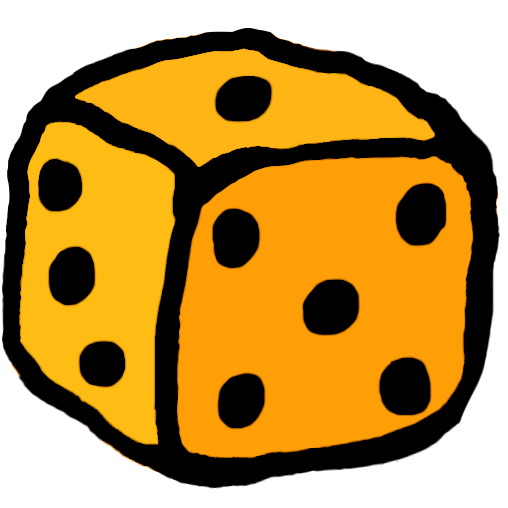
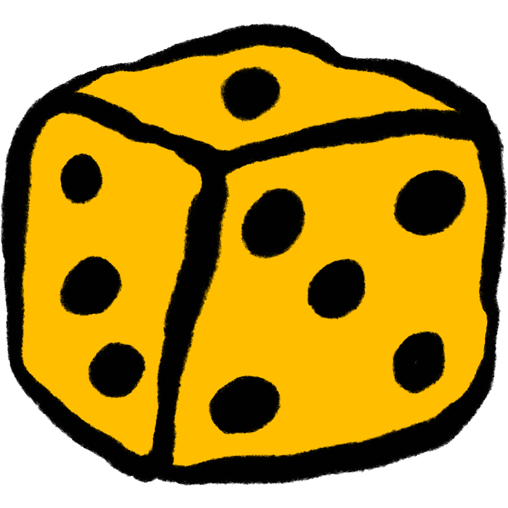
changeicons

diff --git a/index.html b/index.html
@@ -5,12 +5,11 @@
     <link rel="preconnect" href="https://fonts.googleapis.com" />
     <link rel="preconnect" href="https://fonts.gstatic.com" crossorigin />
     <link
-      href="https://fonts.googleapis.com/css2?family=Montserrat&display=swap"
-      rel="stylesheet"
-    />
-    <link rel="stylesheet" href="style.css">
+    href="https://fonts.googleapis.com/css2?family=Montserrat&display=swap"
+    rel="stylesheet"
+  /> <link rel="stylesheet" href="style.css">
   
-    <link rel="icon" type="image/png" href="diddateningur2.png" />
+    <link rel="icon" type="image/png" href="https://cdn.glitch.global/afd6bd89-5aa6-4ad5-a74d-3a4f8b481258/teningur_icon.png?v=1674076290462" />
     <title>Didda Flygenring</title>
   </head>
 
@@ -188,10 +187,10 @@ function mouseOut2() {
   
     </script>
 
-    <input  onmouseout="mouseOut()" onmouseover="mouseOver()" onclick="everything()" id="everything" class= "icon" type="image" width="20px" src="https://cdn.glitch.global/b7a91551-0927-45a3-b8a5-350a34a2849a/diddateningur2.png?v=1673995074265" />
-    <input  onmouseout="mouseOut1()" onmouseover="mouseOver1()" onclick="video()" id="video" class= "icon" type="image" width="20px" src="https://cdn.glitch.global/afd6bd89-5aa6-4ad5-a74d-3a4f8b481258/video.png?v=1674027890062" />
-    <input  onmouseout="mouseOut2()" onmouseover="mouseOver2()" onclick="graphic()" id="graphic" class= "icon" type="image" width="20px" src="https://cdn.glitch.global/afd6bd89-5aa6-4ad5-a74d-3a4f8b481258/graphic2.png?v=1674027887445" />
-    <input  onmouseout="mouseOut3()" onmouseover="mouseOver3()" onclick="illustrations()" id="illustrations" class= "icon" type="image" width="20px" src="https://cdn.glitch.global/afd6bd89-5aa6-4ad5-a74d-3a4f8b481258/blyantur2.png?v=1674027416649" />
+    <input  onmouseout="mouseOut()" onmouseover="mouseOver()" onclick="everything()" id="everything" class= "icon" type="image" width="21px" src="https://cdn.glitch.global/afd6bd89-5aa6-4ad5-a74d-3a4f8b481258/teningur_icon.png" />
+    <input  onmouseout="mouseOut1()" onmouseover="mouseOver1()" onclick="video()" id="video" class= "icon" type="image" width="21px" src="https://cdn.glitch.global/afd6bd89-5aa6-4ad5-a74d-3a4f8b481258/video_icon.png?v=1674076621364" />
+    <input  onmouseout="mouseOut2()" onmouseover="mouseOver2()" onclick="graphic()" id="graphic" class= "icon" type="image" width="21px" src="https://cdn.glitch.global/afd6bd89-5aa6-4ad5-a74d-3a4f8b481258/graphic_icon.png?v=1674076293792" />
+    <input  onmouseout="mouseOut3()" onmouseover="mouseOver3()" onclick="illustrations()" id="illustrations" class= "icon" type="image" width="23px" src="https://cdn.glitch.global/afd6bd89-5aa6-4ad5-a74d-3a4f8b481258/illustrations_icon.png?v=1674076303822" />
     
   </div>
     <body>

diff --git a/escaping-the-meat.html b/escaping-the-meat.html
@@ -29,13 +29,11 @@
     document.getElementById("everything").style.filter = 'contrast(1000%) grayscale(100%) brightness(600%)';
  }
      </script>
- 
-     <input  onmouseover="mouseOver()" onmouseout="mouseOut()" onclick="window.location.href='./';" id="everything" class= "icon" type="image" width="20px" src="https://cdn.glitch.global/b7a91551-0927-45a3-b8a5-350a34a2849a/diddateningur2.png?v=1673995074265" />
-     <input  id="video" class= "icon" type="image" width="20px" src="https://cdn.glitch.global/afd6bd89-5aa6-4ad5-a74d-3a4f8b481258/video.png?v=1674027890062" />
-     <input  id="graphic" class= "icon" type="image" width="20px" src="https://cdn.glitch.global/afd6bd89-5aa6-4ad5-a74d-3a4f8b481258/graphic2.png?v=1674027887445" />
-     <input  id="illustrations" class= "icon" type="image" width="20px" src="https://cdn.glitch.global/afd6bd89-5aa6-4ad5-a74d-3a4f8b481258/blyantur2.png?v=1674027416649" />
- 
-</div>
+ <input  onmouseout="mouseOut()" onmouseover="mouseOver()" onclick="everything()" id="everything" class= "icon" type="image" width="21px" src="https://cdn.glitch.global/afd6bd89-5aa6-4ad5-a74d-3a4f8b481258/teningur_icon.png" />
+ <input  onmouseout="mouseOut1()" onmouseover="mouseOver1()" onclick="video()" id="video" class= "icon" type="image" width="21px" src="https://cdn.glitch.global/afd6bd89-5aa6-4ad5-a74d-3a4f8b481258/video_icon.png?v=1674076621364" />
+ <input  onmouseout="mouseOut2()" onmouseover="mouseOver2()" onclick="graphic()" id="graphic" class= "icon" type="image" width="21px" src="https://cdn.glitch.global/afd6bd89-5aa6-4ad5-a74d-3a4f8b481258/graphic_icon.png?v=1674076293792" />
+ <input  onmouseout="mouseOut3()" onmouseover="mouseOver3()" onclick="illustrations()" id="illustrations" class= "icon" type="image" width="23px" src="https://cdn.glitch.global/afd6bd89-5aa6-4ad5-a74d-3a4f8b481258/illustrations_icon.png?v=1674076303822" />
+ </div>
   </head>
 
   <body>

diff --git a/gardina.html b/gardina.html
@@ -30,13 +30,11 @@
     document.getElementById("everything").style.filter = 'contrast(1000%) grayscale(100%) brightness(600%)';
  }
      </script>
- 
-     <input  onmouseover="mouseOver()" onmouseout="mouseOut()" onclick="window.location.href='./';" id="everything" class= "icon" type="image" width="20px" src="https://cdn.glitch.global/b7a91551-0927-45a3-b8a5-350a34a2849a/diddateningur2.png?v=1673995074265" />
-     <input  id="video" class= "icon" type="image" width="20px" src="https://cdn.glitch.global/afd6bd89-5aa6-4ad5-a74d-3a4f8b481258/video.png?v=1674027890062" />
-     <input  id="graphic" class= "icon" type="image" width="20px" src="https://cdn.glitch.global/afd6bd89-5aa6-4ad5-a74d-3a4f8b481258/graphic2.png?v=1674027887445" />
-     <input  id="illustrations" class= "icon" type="image" width="20px" src="https://cdn.glitch.global/afd6bd89-5aa6-4ad5-a74d-3a4f8b481258/blyantur2.png?v=1674027416649" />
- 
-</div>
+ <input  onmouseout="mouseOut()" onmouseover="mouseOver()" onclick="everything()" id="everything" class= "icon" type="image" width="21px" src="https://cdn.glitch.global/afd6bd89-5aa6-4ad5-a74d-3a4f8b481258/teningur_icon.png" />
+ <input  onmouseout="mouseOut1()" onmouseover="mouseOver1()" onclick="video()" id="video" class= "icon" type="image" width="21px" src="https://cdn.glitch.global/afd6bd89-5aa6-4ad5-a74d-3a4f8b481258/video_icon.png?v=1674076621364" />
+ <input  onmouseout="mouseOut2()" onmouseover="mouseOver2()" onclick="graphic()" id="graphic" class= "icon" type="image" width="21px" src="https://cdn.glitch.global/afd6bd89-5aa6-4ad5-a74d-3a4f8b481258/graphic_icon.png?v=1674076293792" />
+ <input  onmouseout="mouseOut3()" onmouseover="mouseOver3()" onclick="illustrations()" id="illustrations" class= "icon" type="image" width="23px" src="https://cdn.glitch.global/afd6bd89-5aa6-4ad5-a74d-3a4f8b481258/illustrations_icon.png?v=1674076303822" />
+ </div>
   </head>
 
   <body>

diff --git a/helgi-hoseasson.html b/helgi-hoseasson.html
@@ -28,13 +28,11 @@
     document.getElementById("everything").style.filter = 'contrast(1000%) grayscale(100%) brightness(600%)';
  }
      </script>
- 
-     <input  onmouseover="mouseOver()" onmouseout="mouseOut()" onclick="window.location.href='./';" id="everything" class= "icon" type="image" width="20px" src="https://cdn.glitch.global/b7a91551-0927-45a3-b8a5-350a34a2849a/diddateningur2.png?v=1673995074265" />
-     <input  id="video" class= "icon" type="image" width="20px" src="https://cdn.glitch.global/afd6bd89-5aa6-4ad5-a74d-3a4f8b481258/video.png?v=1674027890062" />
-     <input  id="graphic" class= "icon" type="image" width="20px" src="https://cdn.glitch.global/afd6bd89-5aa6-4ad5-a74d-3a4f8b481258/graphic2.png?v=1674027887445" />
-     <input  id="illustrations" class= "icon" type="image" width="20px" src="https://cdn.glitch.global/afd6bd89-5aa6-4ad5-a74d-3a4f8b481258/blyantur2.png?v=1674027416649" />
- 
-</div>
+ <input  onmouseout="mouseOut()" onmouseover="mouseOver()" onclick="everything()" id="everything" class= "icon" type="image" width="21px" src="https://cdn.glitch.global/afd6bd89-5aa6-4ad5-a74d-3a4f8b481258/teningur_icon.png" />
+ <input  onmouseout="mouseOut1()" onmouseover="mouseOver1()" onclick="video()" id="video" class= "icon" type="image" width="21px" src="https://cdn.glitch.global/afd6bd89-5aa6-4ad5-a74d-3a4f8b481258/video_icon.png?v=1674076621364" />
+ <input  onmouseout="mouseOut2()" onmouseover="mouseOver2()" onclick="graphic()" id="graphic" class= "icon" type="image" width="21px" src="https://cdn.glitch.global/afd6bd89-5aa6-4ad5-a74d-3a4f8b481258/graphic_icon.png?v=1674076293792" />
+ <input  onmouseout="mouseOut3()" onmouseover="mouseOver3()" onclick="illustrations()" id="illustrations" class= "icon" type="image" width="23px" src="https://cdn.glitch.global/afd6bd89-5aa6-4ad5-a74d-3a4f8b481258/illustrations_icon.png?v=1674076303822" />
+ </div>
   </head>
 
   <body>

diff --git a/paper-and-type-specimen.html b/paper-and-type-specimen.html
@@ -30,13 +30,11 @@
     document.getElementById("everything").style.filter = 'contrast(1000%) grayscale(100%) brightness(600%)';
  }
      </script>
- 
-     <input  onmouseover="mouseOver()" onmouseout="mouseOut()" onclick="window.location.href='./';" id="everything" class= "icon" type="image" width="20px" src="https://cdn.glitch.global/b7a91551-0927-45a3-b8a5-350a34a2849a/diddateningur2.png?v=1673995074265" />
-     <input  id="video" class= "icon" type="image" width="20px" src="https://cdn.glitch.global/afd6bd89-5aa6-4ad5-a74d-3a4f8b481258/video.png?v=1674027890062" />
-     <input  id="graphic" class= "icon" type="image" width="20px" src="https://cdn.glitch.global/afd6bd89-5aa6-4ad5-a74d-3a4f8b481258/graphic2.png?v=1674027887445" />
-     <input  id="illustrations" class= "icon" type="image" width="20px" src="https://cdn.glitch.global/afd6bd89-5aa6-4ad5-a74d-3a4f8b481258/blyantur2.png?v=1674027416649" />
- 
-</div>
+ <input  onmouseout="mouseOut()" onmouseover="mouseOver()" onclick="everything()" id="everything" class= "icon" type="image" width="21px" src="https://cdn.glitch.global/afd6bd89-5aa6-4ad5-a74d-3a4f8b481258/teningur_icon.png" />
+ <input  onmouseout="mouseOut1()" onmouseover="mouseOver1()" onclick="video()" id="video" class= "icon" type="image" width="21px" src="https://cdn.glitch.global/afd6bd89-5aa6-4ad5-a74d-3a4f8b481258/video_icon.png?v=1674076621364" />
+ <input  onmouseout="mouseOut2()" onmouseover="mouseOver2()" onclick="graphic()" id="graphic" class= "icon" type="image" width="21px" src="https://cdn.glitch.global/afd6bd89-5aa6-4ad5-a74d-3a4f8b481258/graphic_icon.png?v=1674076293792" />
+ <input  onmouseout="mouseOut3()" onmouseover="mouseOver3()" onclick="illustrations()" id="illustrations" class= "icon" type="image" width="23px" src="https://cdn.glitch.global/afd6bd89-5aa6-4ad5-a74d-3a4f8b481258/illustrations_icon.png?v=1674076303822" />
+ </div>
   </head>
 
   <body>

diff --git a/the-pixels-i-occupy.html b/the-pixels-i-occupy.html
@@ -29,13 +29,11 @@
     document.getElementById("everything").style.filter = 'contrast(1000%) grayscale(100%) brightness(600%)';
  }
      </script>
- 
-     <input  onmouseover="mouseOver()" onmouseout="mouseOut()" onclick="window.location.href='./';" id="everything" class= "icon" type="image" width="20px" src="https://cdn.glitch.global/b7a91551-0927-45a3-b8a5-350a34a2849a/diddateningur2.png?v=1673995074265" />
-     <input  id="video" class= "icon" type="image" width="20px" src="https://cdn.glitch.global/afd6bd89-5aa6-4ad5-a74d-3a4f8b481258/video.png?v=1674027890062" />
-     <input  id="graphic" class= "icon" type="image" width="20px" src="https://cdn.glitch.global/afd6bd89-5aa6-4ad5-a74d-3a4f8b481258/graphic2.png?v=1674027887445" />
-     <input  id="illustrations" class= "icon" type="image" width="20px" src="https://cdn.glitch.global/afd6bd89-5aa6-4ad5-a74d-3a4f8b481258/blyantur2.png?v=1674027416649" />
- 
-</div>
+ <input  onmouseout="mouseOut()" onmouseover="mouseOver()" onclick="everything()" id="everything" class= "icon" type="image" width="21px" src="https://cdn.glitch.global/afd6bd89-5aa6-4ad5-a74d-3a4f8b481258/teningur_icon.png" />
+ <input  onmouseout="mouseOut1()" onmouseover="mouseOver1()" onclick="video()" id="video" class= "icon" type="image" width="21px" src="https://cdn.glitch.global/afd6bd89-5aa6-4ad5-a74d-3a4f8b481258/video_icon.png?v=1674076621364" />
+ <input  onmouseout="mouseOut2()" onmouseover="mouseOver2()" onclick="graphic()" id="graphic" class= "icon" type="image" width="21px" src="https://cdn.glitch.global/afd6bd89-5aa6-4ad5-a74d-3a4f8b481258/graphic_icon.png?v=1674076293792" />
+ <input  onmouseout="mouseOut3()" onmouseover="mouseOver3()" onclick="illustrations()" id="illustrations" class= "icon" type="image" width="23px" src="https://cdn.glitch.global/afd6bd89-5aa6-4ad5-a74d-3a4f8b481258/illustrations_icon.png?v=1674076303822" />
+ </div>
   </head>
 
   <body>

diff --git a/wayfinding-pool.html b/wayfinding-pool.html
@@ -30,13 +30,11 @@
     document.getElementById("everything").style.filter = 'contrast(1000%) grayscale(100%) brightness(600%)';
  }
      </script>
- 
-     <input  onmouseover="mouseOver()" onmouseout="mouseOut()" onclick="window.location.href='./';" id="everything" class= "icon" type="image" width="20px" src="https://cdn.glitch.global/b7a91551-0927-45a3-b8a5-350a34a2849a/diddateningur2.png?v=1673995074265" />
-     <input  id="video" class= "icon" type="image" width="20px" src="https://cdn.glitch.global/afd6bd89-5aa6-4ad5-a74d-3a4f8b481258/video.png?v=1674027890062" />
-     <input  id="graphic" class= "icon" type="image" width="20px" src="https://cdn.glitch.global/afd6bd89-5aa6-4ad5-a74d-3a4f8b481258/graphic2.png?v=1674027887445" />
-     <input  id="illustrations" class= "icon" type="image" width="20px" src="https://cdn.glitch.global/afd6bd89-5aa6-4ad5-a74d-3a4f8b481258/blyantur2.png?v=1674027416649" />
- 
-</div>
+ <input  onmouseout="mouseOut()" onmouseover="mouseOver()" onclick="everything()" id="everything" class= "icon" type="image" width="21px" src="https://cdn.glitch.global/afd6bd89-5aa6-4ad5-a74d-3a4f8b481258/teningur_icon.png" />
+ <input  onmouseout="mouseOut1()" onmouseover="mouseOver1()" onclick="video()" id="video" class= "icon" type="image" width="21px" src="https://cdn.glitch.global/afd6bd89-5aa6-4ad5-a74d-3a4f8b481258/video_icon.png?v=1674076621364" />
+ <input  onmouseout="mouseOut2()" onmouseover="mouseOver2()" onclick="graphic()" id="graphic" class= "icon" type="image" width="21px" src="https://cdn.glitch.global/afd6bd89-5aa6-4ad5-a74d-3a4f8b481258/graphic_icon.png?v=1674076293792" />
+ <input  onmouseout="mouseOut3()" onmouseover="mouseOver3()" onclick="illustrations()" id="illustrations" class= "icon" type="image" width="23px" src="https://cdn.glitch.global/afd6bd89-5aa6-4ad5-a74d-3a4f8b481258/illustrations_icon.png?v=1674076303822" />
+ </div>
   </head>
 
   <body>

diff --git a/info.html b/info.html
@@ -28,11 +28,11 @@ function mouseOut() {
 }
     </script>
 
-    <input  onmouseover="mouseOver()" onmouseout="mouseOut()" onclick="window.location.href='./';" id="everything" class= "icon" type="image" width="20px" src="https://cdn.glitch.global/b7a91551-0927-45a3-b8a5-350a34a2849a/diddateningur2.png?v=1673995074265" />
-    <input  id="video" class= "icon" type="image" width="20px" src="https://cdn.glitch.global/afd6bd89-5aa6-4ad5-a74d-3a4f8b481258/video.png?v=1674027890062" />
-    <input  id="graphic" class= "icon" type="image" width="20px" src="https://cdn.glitch.global/afd6bd89-5aa6-4ad5-a74d-3a4f8b481258/graphic2.png?v=1674027887445" />
-    <input  id="illustrations" class= "icon" type="image" width="20px" src="https://cdn.glitch.global/afd6bd89-5aa6-4ad5-a74d-3a4f8b481258/blyantur2.png?v=1674027416649" />
-  </div>
+<input  onmouseout="mouseOut()" onmouseover="mouseOver()" onclick="everything()" id="everything" class= "icon" type="image" width="21px" src="https://cdn.glitch.global/afd6bd89-5aa6-4ad5-a74d-3a4f8b481258/teningur_icon.png" />
+<input  onmouseout="mouseOut1()" onmouseover="mouseOver1()" onclick="video()" id="video" class= "icon" type="image" width="21px" src="https://cdn.glitch.global/afd6bd89-5aa6-4ad5-a74d-3a4f8b481258/video_icon.png?v=1674076621364" />
+<input  onmouseout="mouseOut2()" onmouseover="mouseOver2()" onclick="graphic()" id="graphic" class= "icon" type="image" width="21px" src="https://cdn.glitch.global/afd6bd89-5aa6-4ad5-a74d-3a4f8b481258/graphic_icon.png?v=1674076293792" />
+<input  onmouseout="mouseOut3()" onmouseover="mouseOver3()" onclick="illustrations()" id="illustrations" class= "icon" type="image" width="23px" src="https://cdn.glitch.global/afd6bd89-5aa6-4ad5-a74d-3a4f8b481258/illustrations_icon.png?v=1674076303822" />
+</div>
 </head>
 <body>
     <div class="sidenav">

diff --git a/bibliography.html b/bibliography.html
@@ -30,12 +30,11 @@
  }
      </script>
  
-     <input  onmouseover="mouseOver()" onmouseout="mouseOut()" onclick="window.location.href='./';" id="everything" class= "icon" type="image" width="20px" src="https://cdn.glitch.global/b7a91551-0927-45a3-b8a5-350a34a2849a/diddateningur2.png?v=1673995074265" />
-     <input  id="video" class= "icon" type="image" width="20px" src="https://cdn.glitch.global/afd6bd89-5aa6-4ad5-a74d-3a4f8b481258/video.png?v=1674027890062" />
-     <input  id="graphic" class= "icon" type="image" width="20px" src="https://cdn.glitch.global/afd6bd89-5aa6-4ad5-a74d-3a4f8b481258/graphic2.png?v=1674027887445" />
-     <input  id="illustrations" class= "icon" type="image" width="20px" src="https://cdn.glitch.global/afd6bd89-5aa6-4ad5-a74d-3a4f8b481258/blyantur2.png?v=1674027416649" />
- 
-</div>
+     <input  onmouseout="mouseOut()" onmouseover="mouseOver()" onclick="everything()" id="everything" class= "icon" type="image" width="21px" src="https://cdn.glitch.global/afd6bd89-5aa6-4ad5-a74d-3a4f8b481258/teningur_icon.png" />
+     <input  onmouseout="mouseOut1()" onmouseover="mouseOver1()" onclick="video()" id="video" class= "icon" type="image" width="21px" src="https://cdn.glitch.global/afd6bd89-5aa6-4ad5-a74d-3a4f8b481258/video_icon.png?v=1674076621364" />
+     <input  onmouseout="mouseOut2()" onmouseover="mouseOver2()" onclick="graphic()" id="graphic" class= "icon" type="image" width="21px" src="https://cdn.glitch.global/afd6bd89-5aa6-4ad5-a74d-3a4f8b481258/graphic_icon.png?v=1674076293792" />
+     <input  onmouseout="mouseOut3()" onmouseover="mouseOver3()" onclick="illustrations()" id="illustrations" class= "icon" type="image" width="23px" src="https://cdn.glitch.global/afd6bd89-5aa6-4ad5-a74d-3a4f8b481258/illustrations_icon.png?v=1674076303822" />
+     </div>
   </head>
 
   <body>

diff --git a/amsterdam-prishtina.html b/amsterdam-prishtina.html
@@ -30,12 +30,11 @@
  }
      </script>
  
-     <input  onmouseover="mouseOver()" onmouseout="mouseOut()" onclick="window.location.href='./';" id="everything" class= "icon" type="image" width="20px" src="https://cdn.glitch.global/b7a91551-0927-45a3-b8a5-350a34a2849a/diddateningur2.png?v=1673995074265" />
-     <input  id="video" class= "icon" type="image" width="20px" src="https://cdn.glitch.global/afd6bd89-5aa6-4ad5-a74d-3a4f8b481258/video.png?v=1674027890062" />
-     <input  id="graphic" class= "icon" type="image" width="20px" src="https://cdn.glitch.global/afd6bd89-5aa6-4ad5-a74d-3a4f8b481258/graphic2.png?v=1674027887445" />
-     <input  id="illustrations" class= "icon" type="image" width="20px" src="https://cdn.glitch.global/afd6bd89-5aa6-4ad5-a74d-3a4f8b481258/blyantur2.png?v=1674027416649" />
- 
-</div>
+ <input  onmouseout="mouseOut()" onmouseover="mouseOver()" onclick="everything()" id="everything" class= "icon" type="image" width="21px" src="https://cdn.glitch.global/afd6bd89-5aa6-4ad5-a74d-3a4f8b481258/teningur_icon.png" />
+ <input  onmouseout="mouseOut1()" onmouseover="mouseOver1()" onclick="video()" id="video" class= "icon" type="image" width="21px" src="https://cdn.glitch.global/afd6bd89-5aa6-4ad5-a74d-3a4f8b481258/video_icon.png?v=1674076621364" />
+ <input  onmouseout="mouseOut2()" onmouseover="mouseOver2()" onclick="graphic()" id="graphic" class= "icon" type="image" width="21px" src="https://cdn.glitch.global/afd6bd89-5aa6-4ad5-a74d-3a4f8b481258/graphic_icon.png?v=1674076293792" />
+ <input  onmouseout="mouseOut3()" onmouseover="mouseOver3()" onclick="illustrations()" id="illustrations" class= "icon" type="image" width="23px" src="https://cdn.glitch.global/afd6bd89-5aa6-4ad5-a74d-3a4f8b481258/illustrations_icon.png?v=1674076303822" />
+ </div>
   </head>
 
   <body>

diff --git a/at-the-heart-of-the-dear.html b/at-the-heart-of-the-dear.html
@@ -30,12 +30,11 @@
  }
      </script>
  
-     <input  onmouseover="mouseOver()" onmouseout="mouseOut()" onclick="window.location.href='./';" id="everything" class= "icon" type="image" width="20px" src="https://cdn.glitch.global/b7a91551-0927-45a3-b8a5-350a34a2849a/diddateningur2.png?v=1673995074265" />
-     <input  id="video" class= "icon" type="image" width="20px" src="https://cdn.glitch.global/afd6bd89-5aa6-4ad5-a74d-3a4f8b481258/video.png?v=1674027890062" />
-     <input  id="graphic" class= "icon" type="image" width="20px" src="https://cdn.glitch.global/afd6bd89-5aa6-4ad5-a74d-3a4f8b481258/graphic2.png?v=1674027887445" />
-     <input  id="illustrations" class= "icon" type="image" width="20px" src="https://cdn.glitch.global/afd6bd89-5aa6-4ad5-a74d-3a4f8b481258/blyantur2.png?v=1674027416649" />
- 
-</div>
+ <input  onmouseout="mouseOut()" onmouseover="mouseOver()" onclick="everything()" id="everything" class= "icon" type="image" width="21px" src="https://cdn.glitch.global/afd6bd89-5aa6-4ad5-a74d-3a4f8b481258/teningur_icon.png" />
+ <input  onmouseout="mouseOut1()" onmouseover="mouseOver1()" onclick="video()" id="video" class= "icon" type="image" width="21px" src="https://cdn.glitch.global/afd6bd89-5aa6-4ad5-a74d-3a4f8b481258/video_icon.png?v=1674076621364" />
+ <input  onmouseout="mouseOut2()" onmouseover="mouseOver2()" onclick="graphic()" id="graphic" class= "icon" type="image" width="21px" src="https://cdn.glitch.global/afd6bd89-5aa6-4ad5-a74d-3a4f8b481258/graphic_icon.png?v=1674076293792" />
+ <input  onmouseout="mouseOut3()" onmouseover="mouseOver3()" onclick="illustrations()" id="illustrations" class= "icon" type="image" width="23px" src="https://cdn.glitch.global/afd6bd89-5aa6-4ad5-a74d-3a4f8b481258/illustrations_icon.png?v=1674076303822" />
+ </div>
   </head>
 
   <body>

diff --git a/bus.html b/bus.html
@@ -31,12 +31,11 @@
  }
      </script>
  
-     <input  onmouseover="mouseOver()" onmouseout="mouseOut()" onclick="window.location.href='./';" id="everything" class= "icon" type="image" width="20px" src="https://cdn.glitch.global/b7a91551-0927-45a3-b8a5-350a34a2849a/diddateningur2.png?v=1673995074265" />
-     <input  id="video" class= "icon" type="image" width="20px" src="https://cdn.glitch.global/afd6bd89-5aa6-4ad5-a74d-3a4f8b481258/video.png?v=1674027890062" />
-     <input  id="graphic" class= "icon" type="image" width="20px" src="https://cdn.glitch.global/afd6bd89-5aa6-4ad5-a74d-3a4f8b481258/graphic2.png?v=1674027887445" />
-     <input  id="illustrations" class= "icon" type="image" width="20px" src="https://cdn.glitch.global/afd6bd89-5aa6-4ad5-a74d-3a4f8b481258/blyantur2.png?v=1674027416649" />
- 
-</div>
+ <input  onmouseout="mouseOut()" onmouseover="mouseOver()" onclick="everything()" id="everything" class= "icon" type="image" width="21px" src="https://cdn.glitch.global/afd6bd89-5aa6-4ad5-a74d-3a4f8b481258/teningur_icon.png" />
+ <input  onmouseout="mouseOut1()" onmouseover="mouseOver1()" onclick="video()" id="video" class= "icon" type="image" width="21px" src="https://cdn.glitch.global/afd6bd89-5aa6-4ad5-a74d-3a4f8b481258/video_icon.png?v=1674076621364" />
+ <input  onmouseout="mouseOut2()" onmouseover="mouseOver2()" onclick="graphic()" id="graphic" class= "icon" type="image" width="21px" src="https://cdn.glitch.global/afd6bd89-5aa6-4ad5-a74d-3a4f8b481258/graphic_icon.png?v=1674076293792" />
+ <input  onmouseout="mouseOut3()" onmouseover="mouseOver3()" onclick="illustrations()" id="illustrations" class= "icon" type="image" width="23px" src="https://cdn.glitch.global/afd6bd89-5aa6-4ad5-a74d-3a4f8b481258/illustrations_icon.png?v=1674076303822" />
+ </div>
   </head>
 
   <body>
